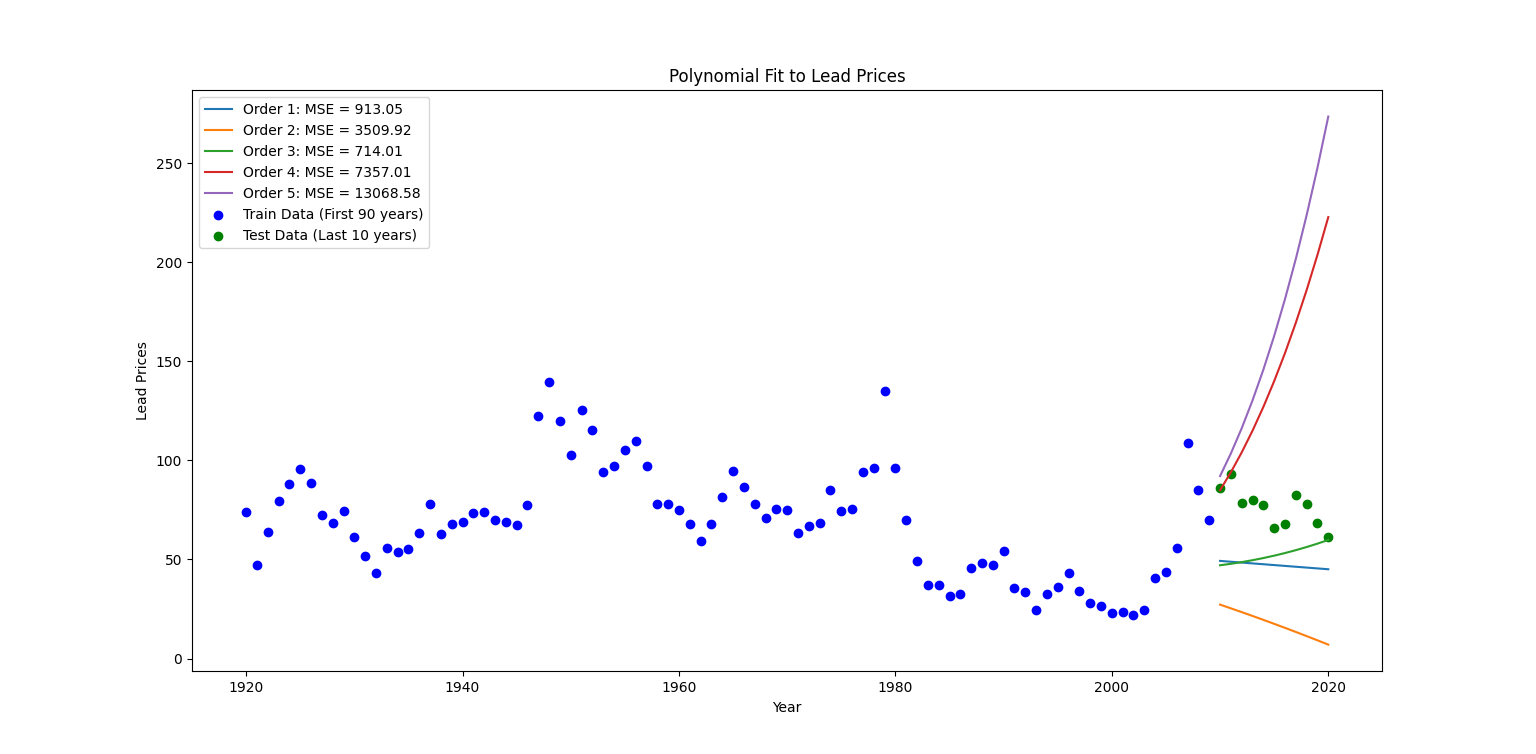
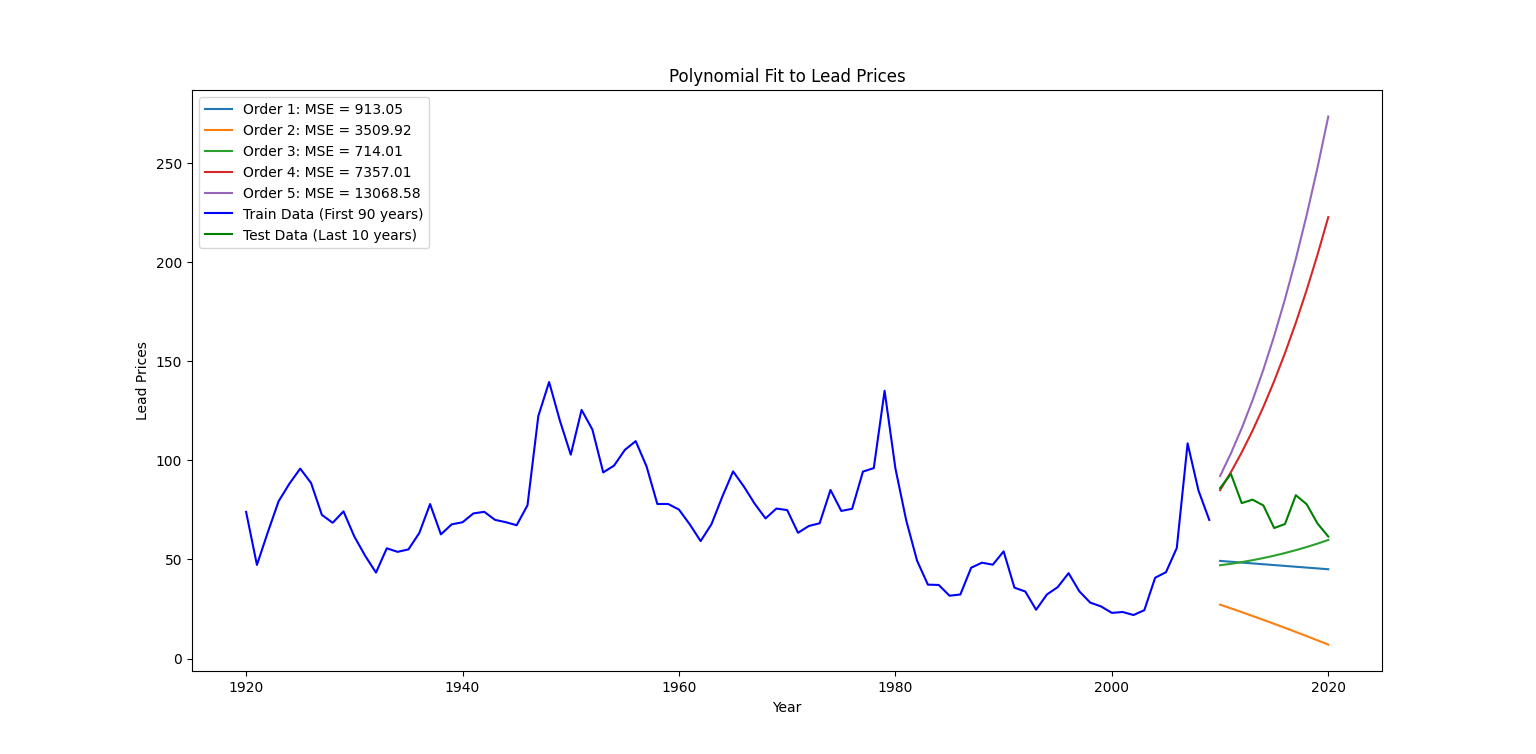
Changed plot to scatter plot

diff --git a/labtasks/polynomial_fit/polynomial_estimator.py b/labtasks/polynomial_fit/polynomial_estimator.py
@@ -36,8 +36,8 @@ for order in orders:
     plt.plot(X_test, y_pred, label=f'Order {order}: MSE = {mse:.2f}')
 
 # Plot the actual data
-plt.scatter(X_train, y_train, color='blue', label='Train Data (First 90 years)')
-plt.scatter(X_test, y_test, color='green', label='Test Data (Last 10 years)')
+plt.plot(X_train, y_train, color='blue', label='Train Data (First 90 years)')
+plt.plot(X_test, y_test, color='green', label='Test Data (Last 10 years)')
 
 plt.xlabel('Year')
 plt.ylabel('Lead Prices')
